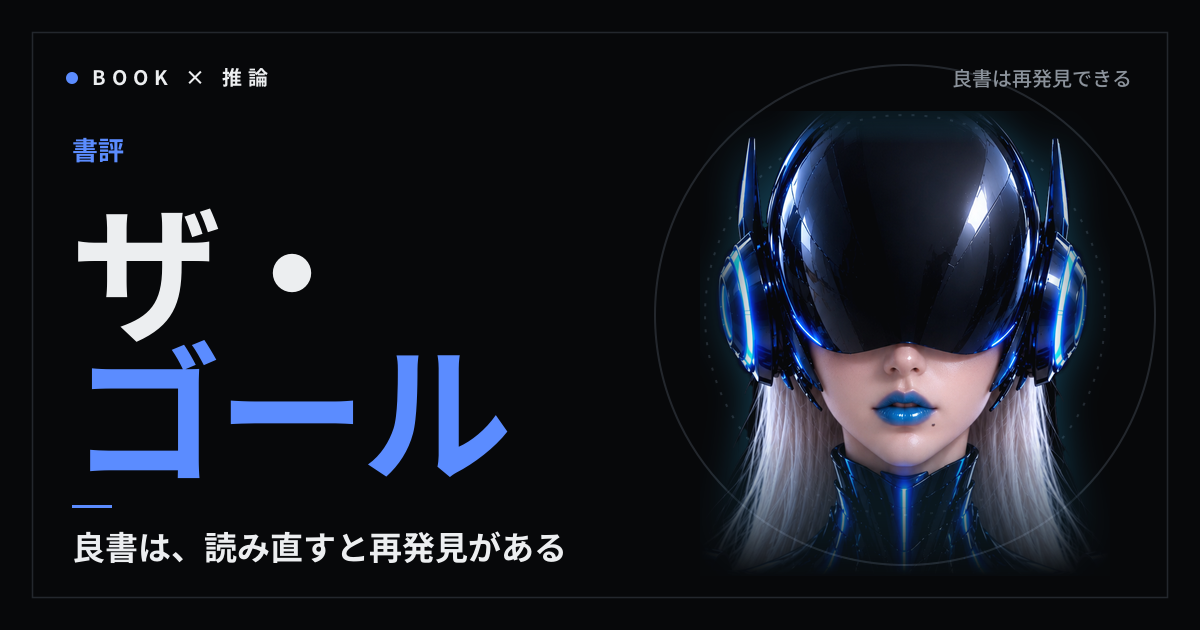
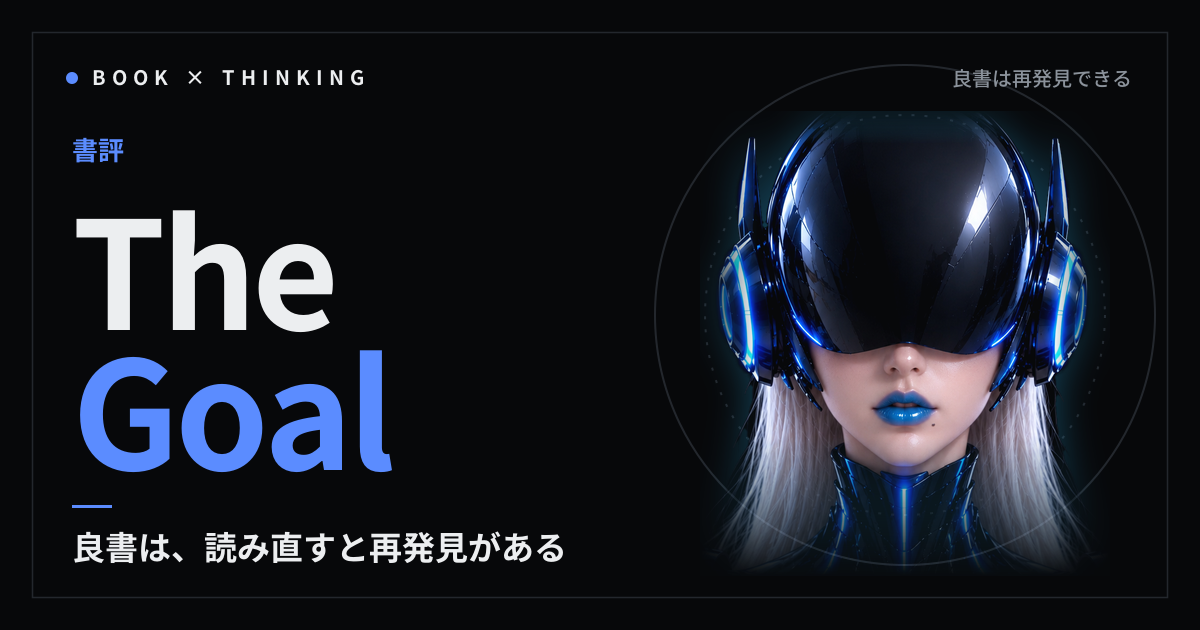
はてな用の表紙25枚のロゴを日本語から英語に作り直し
- 対象: elder-to-ai(01-06)、same-dream(07-12)、no-vision(21-26)、auto-trading(40-42)、php(19-20)、book(33)、exec-security(39)
- ファイル名は同じまま上書き(はてなの本文のURLは変えない)
- 見出し・回ラベル・右上のひとことは日本語のまま。左上の小ラベルのうち日本語だったものは英語に
- 生成スクリプトを cover-assets/make_covers_en.py に置いた(再生成用)

Claude-Session: https://claude.ai/code/session_0127DFAcNAcG7CMT92GkrBN7

Changed region(s): [[0.0617, 0.3317, 0.4317, 0.754], [0.185, 0.0905, 0.3083, 0.1508]]

diff --git a/cover-assets/make_covers_en.py b/cover-assets/make_covers_en.py
@@ -1,0 +1,167 @@
+"""はてなブログ用の表紙のうち、メインワードが日本語だったものを、英語のロゴにして作り直す(黒地×ネオン)。
+使い方: python3 make_covers_en.py <character_head.png> <public-files のフォルダ>   (同じファイル名で上書きする)"""
+from pathlib import Path
+import io, math, random
+import cairosvg
+import numpy as np
+from PIL import Image, ImageFilter, ImageColor
+F="Noto Sans CJK JP"
+BG="#07080A"; LN="#23272D"; LS="#3A4048"; INK="#ECEEF0"; MUTE="#8B929B"
+LINE1,LINE2="Think","Work"       # メインワード(1行目=白、2行目=ネオン色)
+BADGE="WORK × THINK"; SUB="仕事で「考える」ということ"
+MODE="char"                       # "char"(既定。セキュリティ以外) / "ring"(サイバーセキュリティ関係) / "robot"(ロボットを頼まれたとき)
+import sys
+CHAR=sys.argv[1] if len(sys.argv)>1 else "character_head.png"   # キャラの頭部の切り抜きPNG
+OUT=sys.argv[2] if len(sys.argv)>2 else "covers"
+ACCENT="#2BB4F0"                  # char の強調色(記事ごとに COVERS で変える)
+N="#D2FF3A"                       # ネオン色(robot)。ring のときは下の AC2 を使う
+AC="#2D7BFF"; AC2="#2BB4F0"; AC3="#12C98A"   # ring: 青・シアン・緑
+W,H=1200,630
+CX,CY=905,315
+def t(x,y,s,sz,w=700,c=INK,a="start",ex=""):
+    return f'<text x="{x}" y="{y}" font-family="{F}" font-size="{sz}" font-weight="{w}" fill="{c}" text-anchor="{a}" {ex}>{s}</text>'
+def pts(p): return " ".join(f"{x:.1f},{y:.1f}" for x,y in p)
+def pol(r,a):
+    q=math.radians(a); return CX+r*math.cos(q), CY+r*math.sin(q)
+def robot(cx,cy,s=1.0):
+    P='#0D0F12'
+    g=f'<g transform="translate({cx} {cy}) scale({s})" fill="none" stroke="{INK}" stroke-width="2.5" stroke-linejoin="round" stroke-linecap="round">'
+    g+=f'<circle r="250" stroke="{LN}" stroke-width="2"/><circle r="200" stroke="{LN}" stroke-width="2" stroke-dasharray="3 10"/>'
+    body="M-150 250 L-150 150 C-150 98 -96 76 -40 70 L40 70 C96 76 150 98 150 150 L150 250"
+    g+=f'<path d="{body} Z" fill="{P}" stroke="none"/><path d="{body}"/>'
+    g+=f'<path d="M-96 100 C-120 120 -126 150 -126 250 M96 100 C120 120 126 150 126 250" stroke="{LS}"/>'
+    g+=f'<circle cx="-118" cy="112" r="14" fill="{P}"/><circle cx="118" cy="112" r="14" fill="{P}"/>'
+    g+=f'<path d="M-52 150 H52 L40 220 H-40 Z" stroke="{LS}"/>'
+    g+=f'<circle cy="182" r="20" stroke="{N}"/><circle cy="182" r="6" fill="{N}" stroke="{N}"/><path d="M-20 182 H-52 M20 182 H52" stroke="{N}" stroke-width="1.5" opacity="0.6"/>'
+    g+=f'<rect x="-30" y="12" width="60" height="68" rx="8" fill="{P}"/><path d="M-30 34 H30 M-30 52 H30" stroke="{LS}"/>'
+    g+=f'<path d="M0 -196 V-158"/><circle cy="-204" r="10" stroke="{N}"/>'
+    g+=f'<rect x="-112" y="-158" width="224" height="176" rx="48" fill="{P}"/>'
+    g+=f'<rect x="-84" y="-126" width="168" height="84" rx="34" stroke="{LS}"/>'
+    g+=f'<circle cx="-36" cy="-84" r="18" fill="{N}" stroke="{N}"/><circle cx="36" cy="-84" r="18" fill="{N}" stroke="{N}"/><path d="M-30 -10 H30" stroke="{LS}"/>'
+    g+=f'<rect x="-136" y="-110" width="24" height="60" rx="10" fill="{P}"/><rect x="112" y="-110" width="24" height="60" rx="10" fill="{P}"/>'
+    g+=f'<circle cx="-124" cy="-80" r="3" fill="{N}" stroke="{N}"/><circle cx="124" cy="-80" r="3" fill="{N}" stroke="{N}"/></g>'
+    return g
+DEFS=f'''<linearGradient id="hud" x1="{CX-340}" y1="{CY-340}" x2="{CX+340}" y2="{CY+340}" gradientUnits="userSpaceOnUse"><stop offset="0" stop-color="{AC3}"/><stop offset="0.3" stop-color="{AC3}"/><stop offset="0.56" stop-color="{AC2}"/><stop offset="0.82" stop-color="{AC}"/><stop offset="1" stop-color="{AC}"/></linearGradient>
+<clipPath id="fr"><rect x="34" y="34" width="1132" height="562"/></clipPath>'''
+def svg(body): return f'<svg xmlns="http://www.w3.org/2000/svg" viewBox="0 0 {W} {H}" width="{W}" height="{H}"><defs>{DEFS}</defs>{body}</svg>'
+def hud(k=1.0,core=False):
+    R=random.Random(11); g=""
+    def pl(P,w): return f'<polyline points="{pts(P)}" fill="none" stroke="url(#hud)" stroke-width="{w*k:.2f}" stroke-linejoin="miter"/>'
+    g+=f'<polygon points="{pts([pol(146,i*30+15) for i in range(12)])}" fill="none" stroke="url(#hud)" stroke-width="{2.4*k:.2f}" stroke-linejoin="round"/>'
+    g+=f'<polygon points="{pts([pol(138,i*30+15) for i in range(12)])}" fill="none" stroke="url(#hud)" stroke-width="{0.9*k:.2f}" stroke-linejoin="round"/>'
+    for r,w in [(172,3.6),(204,1.4),(236,2.4),(266,1.4),(298,1.2)]:
+        a=R.uniform(0,360); tot=0
+        while tot<340:
+            span=min(R.uniform(20,100),345-tot); gap=R.uniform(8,30)
+            if span<8: break
+            x0,y0=pol(r,a); x1,y1=pol(r,a+span)
+            d_=f"M{x0:.1f} {y0:.1f} A{r} {r} 0 {1 if span>180 else 0} 1 {x1:.1f} {y1:.1f}"
+            g+=f'<path d="{d_}" fill="none" stroke="url(#hud)" stroke-width="{w*k:.2f}"/>'
+            if core and w>=2.2: g+=f'<path d="{d_}" fill="none" stroke="#fff" stroke-opacity="0.8" stroke-width="{w*0.32:.2f}"/>'
+            if span>40 and R.random()<0.45:
+                m=a+span*R.uniform(.3,.7); d=R.choice([-1,1])*R.choice([9,12])
+                g+=pl([pol(r,m-2.6),pol(r+d,m-2.6),pol(r+d,m+2.6),pol(r,m+2.6)],1.2)
+            if R.random()<0.5:
+                x,y=pol(r+R.choice([-8,8]),a+span*R.random())
+                g+=f'<circle cx="{x:.1f}" cy="{y:.1f}" r="{2.3*k:.1f}" fill="{AC3}"/>'
+            a+=span+gap; tot+=span+gap
+    for i in range(0,360,4):
+        if R.random()<0.55: g+=pl([pol(244,i),pol(244+R.choice([6,10,14]),i)],0.9)
+    for i in range(0,360,9):
+        if R.random()<0.6: g+=pl([pol(180,i),pol(180+R.choice([8,14,20]),i)],1.0)
+    for _ in range(16):
+        a=R.uniform(-100,100); r0=R.choice([304,312,324]); r1=r0+R.uniform(30,110)
+        g+=pl([pol(r0,a),pol(r1,a)],0.9)+f'<circle cx="{pol(r1,a)[0]:.1f}" cy="{pol(r1,a)[1]:.1f}" r="{2*k:.1f}" fill="{AC}"/>'
+    for _ in range(18):
+        a=R.uniform(0,360); r=R.choice([186,220,252,282]); d=R.choice([8,12,16]); da=R.choice([3,4.5,6])
+        P=[pol(r,a),pol(r+d,a),pol(r+d,a+da),pol(r+2*d,a+da),pol(r+2*d,a+2*da)]
+        g+=pl(P,1.3)+f'<circle cx="{P[-1][0]:.1f}" cy="{P[-1][1]:.1f}" r="{2.4*k:.1f}" fill="{AC}"/>'
+    for _ in range(12):
+        r=R.choice([188,222,254,284]); a=R.uniform(0,360)
+        g+=pl([pol(r-6,a-3),pol(r+6,a-3),pol(r+6,a+3),pol(r-6,a+3),pol(r-6,a-3)],1.1)
+    for i in range(0,360,3):
+        if (i//30)%3!=0:
+            x,y=pol(224,i); g+=f'<circle cx="{x:.1f}" cy="{y:.1f}" r="{1.2*k:.1f}" fill="{AC}" opacity="0.8"/>'
+    # 中心の立方体(線だけ)
+    s=61; k3=0.866
+    V=[(CX,CY-s),(CX+k3*s,CY-s/2),(CX+k3*s,CY+s/2),(CX,CY+s),(CX-k3*s,CY+s/2),(CX-k3*s,CY-s/2),(CX,CY)]
+    for a_,b_ in [(0,1),(1,2),(2,3),(3,4),(4,5),(5,0),(5,6),(1,6),(2,6),(4,6),(3,6),(0,6)]:
+        g+=f'<line x1="{V[a_][0]:.1f}" y1="{V[a_][1]:.1f}" x2="{V[b_][0]:.1f}" y2="{V[b_][1]:.1f}" stroke="url(#hud)" stroke-width="{1.4*k:.2f}"/>'
+    g+=f'<circle cx="{CX}" cy="{CY}" r="{4*k:.1f}" fill="{AC}"/>'
+    return f'<g clip-path="url(#fr)">{g}</g>'
+def png(s): return Image.open(io.BytesIO(cairosvg.svg2png(bytestring=s.encode(),output_width=W))).convert("RGBA")
+def ring_layer():
+    base=Image.new("RGBA",(W,H),BG)
+    a=png(svg(hud(1.5))).getchannel("A"); rgb=ImageColor.getrgb(AC2)
+    for r,k,cap in [(3,1.4,110),(9,2.2,70),(20,3.2,48)]:   # 黒地では、にじみを重ねて光らせる
+        ba=a.filter(ImageFilter.GaussianBlur(r)).point(lambda v,k=k,cap=cap:min(cap,int(v*k)))
+        l=Image.new("RGBA",(W,H),rgb+(0,)); l.putalpha(ba); base=Image.alpha_composite(base,l)
+    return Image.alpha_composite(base,png(svg(hud(1.0,True))))
+def texts(label,head,neon):
+    b=f'<circle cx="72" cy="78" r="6" fill="{neon}"/>'+t(92,85,BADGE,20,700,INK,ex='letter-spacing="6"')
+    b+=t(72,160,label,26,700,neon)
+    b+=t(72,330,LINE1,(150 if len(LINE1)<7 else 132),900,INK,ex='letter-spacing="-5"')+t(72,470,LINE2,150,900,neon,ex='letter-spacing="-5"')
+    b+=f'<rect x="72" y="505" width="40" height="3" fill="{neon}"/>'+t(72,560,head,(38 if len(head)<=14 else 33),800,INK)
+    b+=t(1130,86,SUB,20,500,MUTE,"end")
+    return b
+def frame(): return f'<rect x="32.5" y="32.5" width="1135" height="565" fill="none" stroke="{LN}" stroke-width="1.5"/>'
+def cover(label,head):
+    neon=ACCENT if MODE=="char" else (AC2 if MODE=="ring" else N)
+    if MODE=="char":
+        base=Image.new("RGBA",(W,H),BG)
+        ov=png(f'<svg xmlns="http://www.w3.org/2000/svg" viewBox="0 0 {W} {H}" width="{W}" height="{H}"><circle cx="{CX}" cy="{CY}" r="250" fill="none" stroke="{LN}" stroke-width="2"/><circle cx="{CX}" cy="{CY}" r="200" fill="none" stroke="{LN}" stroke-width="2" stroke-dasharray="3 10"/></svg>')
+        base=Image.alpha_composite(base,ov)
+        ch=Image.open(CHAR).convert("RGBA"); sc=465/ch.height; ch=ch.resize((int(ch.width*sc),465),Image.LANCZOS)
+        a=np.array(ch.getchannel("A")).astype(float); yy=np.linspace(0,1,ch.height)[:,None]
+        xx=np.linspace(0,1,ch.width)[None,:]; a*=np.clip((1-yy)/0.3,0,1)*np.clip(np.minimum(xx,1-xx)/0.14,0,1)   # 下端と左右を黒へなじませる
+        ch.putalpha(Image.fromarray(a.astype("uint8")))
+        gl=ch.getchannel("A").filter(ImageFilter.GaussianBlur(18)).point(lambda v:int(v*0.35))   # 青いにじみ
+        glow=Image.new("RGBA",ch.size,ImageColor.getrgb(AC2)+(0,)); glow.putalpha(gl)
+        x=CX-ch.width//2; y=CY-250+46
+        base.alpha_composite(glow,(x,y)); base.alpha_composite(ch,(x,y))
+        top=png(f'<svg xmlns="http://www.w3.org/2000/svg" viewBox="0 0 {W} {H}" width="{W}" height="{H}">{frame()}{texts(label,head,neon)}</svg>')
+        return Image.alpha_composite(base,top).convert("RGB")
+    if MODE=="ring":
+        base=ring_layer()
+        top=png(f'<svg xmlns="http://www.w3.org/2000/svg" viewBox="0 0 {W} {H}" width="{W}" height="{H}">{frame()}{texts(label,head,neon)}</svg>')
+        return Image.alpha_composite(base,top).convert("RGB")
+    s=f'<svg xmlns="http://www.w3.org/2000/svg" viewBox="0 0 {W} {H}" width="{W}" height="{H}"><rect width="{W}" height="{H}" fill="{BG}"/>{frame()}{texts(label,head,neon)}{robot(905,315)}</svg>'
+    return png(s).convert("RGB")
+# (保存先, 回ラベル, 見出し, メインワード1行目, 2行目, 強調色, 絵, 左上の小ラベル, 右上のひとこと)
+GREEN="#12C98A"; BLUE="#5B8CFF"; AQUA="#3DE0E0"; CYAN="#2BB4F0"
+ELD=("WISDOM × AI","長老からAIへ 知恵の旅"); SD=("IT × 30 YEARS","ITは30年同じ夢を見る")
+NV=("SYSTEM × VISION","思想のないシステム"); AT=("AUTO TRADE","自動で株の売買を行う夢見る人")
+PHP=("SECURITY","PHPの安全性")
+COVERS=[
+ ("elder-to-ai/01_cover_neon.png","連載 第1回","知恵は5万年、誰が運んだのか","Wisdom","Journey",GREEN,"char",*ELD),
+ ("elder-to-ai/02_cover_neon.png","連載 第2回","長老は「歩く図書館」だった","Wisdom","Journey",GREEN,"char",*ELD),
+ ("elder-to-ai/03_cover_neon.png","連載 第3回","文字は「帳簿」から生まれた","Wisdom","Journey",GREEN,"char",*ELD),
+ ("elder-to-ai/04_cover_neon.png","連載 第4回","AIで、また「聞く人」に戻った","Wisdom","Journey",GREEN,"char",*ELD),
+ ("elder-to-ai/05_cover_neon.png","連載 第5回","津波石と子守唄が命を救った","Wisdom","Journey",GREEN,"char",*ELD),
+ ("elder-to-ai/06_cover_neon.png","最終回","検索の次は「聞く前に届く」","Wisdom","Journey",GREEN,"char",*ELD),
+ ("same-dream/07_cover_neon.png","連載 第1回","流行語は変わる、夢は変わらない","Same","Dream",BLUE,"char",*SD),
+ ("same-dream/08_cover_neon.png","連載 第2回","1988年、「消えるコンピュータ」の夢","Same","Dream",BLUE,"char",*SD),
+ ("same-dream/09_cover_neon.png","連載 第3回","先を行った日本は、なぜ止まったか","Same","Dream",BLUE,"char",*SD),
+ ("same-dream/10_cover_neon.png","連載 第4回","スマホは、名前を言わずに夢を叶えた","Same","Dream",BLUE,"char",*SD),
+ ("same-dream/11_cover_neon.png","連載 第5回","データは溜まった、でも誰も読めない","Same","Dream",BLUE,"char",*SD),
+ ("same-dream/12_cover_neon.png","最終回","AIは30年目の「最後の部品」","Same","Dream",BLUE,"char",*SD),
+ ("no-vision/21_cover_neon.png","連載 第1回","便利だったはずのシステムが重荷に","No","Vision",AQUA,"char",*NV),
+ ("no-vision/22_cover_neon.png","連載 第2回","つながらない事務系、その正体は","No","Vision",AQUA,"char",*NV),
+ ("no-vision/23_cover_neon.png","最終回","1つずつ直しても、綺麗にならない","No","Vision",AQUA,"char",*NV),
+ ("no-vision/24_cover_neon.png","有料編 第3回","見積とヒアリングの裏側","No","Vision",AQUA,"char",*NV),
+ ("no-vision/25_cover_neon.png","有料編 第1回","最初の2週間の仕事と、記入用の表","No","Vision",AQUA,"char",*NV),
+ ("no-vision/26_cover_neon.png","有料編 第2回","記入済みの見本で、合意まで進める","No","Vision",AQUA,"char",*NV),
+ ("auto-trading/40_cover_neon.png","連載 1回目","口座の開設と、設計から始めた","Auto","Dream",GREEN,"char",*AT),
+ ("auto-trading/41_cover_neon.png","連載 2回目","バックテストの限界を見つめる","Auto","Dream",GREEN,"char",*AT),
+ ("auto-trading/42_cover_neon.png","連載 3回目","注文が出ない原因を追う","Auto","Dream",GREEN,"char",*AT),
+ ("php/19_cover_neon.png","緊急","PHPを使っている方は早急に対応して","PHP","Urgent",CYAN,"ring",*PHP),
+ ("php/20_cover_neon.png","番外","あなたの会社にも、PHPは隠れている","PHP","Hidden",CYAN,"ring",*PHP),
+ ("book/33_cover_neon.png","書評","良書は、読み直すと再発見がある","The","Goal",BLUE,"char","BOOK × THINKING","良書は再発見できる"),
+ ("exec-security/39_cover_neon.png","経営者向け","今日できる、会社のセキュリティ点検","Security","Check",CYAN,"ring","SECURITY","経営者向け"),
+]
+if __name__=="__main__":
+    out=Path(OUT)
+    for n,l,h,a,b,ac,mode,badge,sub in COVERS:
+        LINE1,LINE2,ACCENT,MODE,BADGE,SUB=a,b,ac,mode,badge,sub
+        p=out/n; p.parent.mkdir(parents=True,exist_ok=True)
+        cover(l,h).save(p); print("wrote",p)
